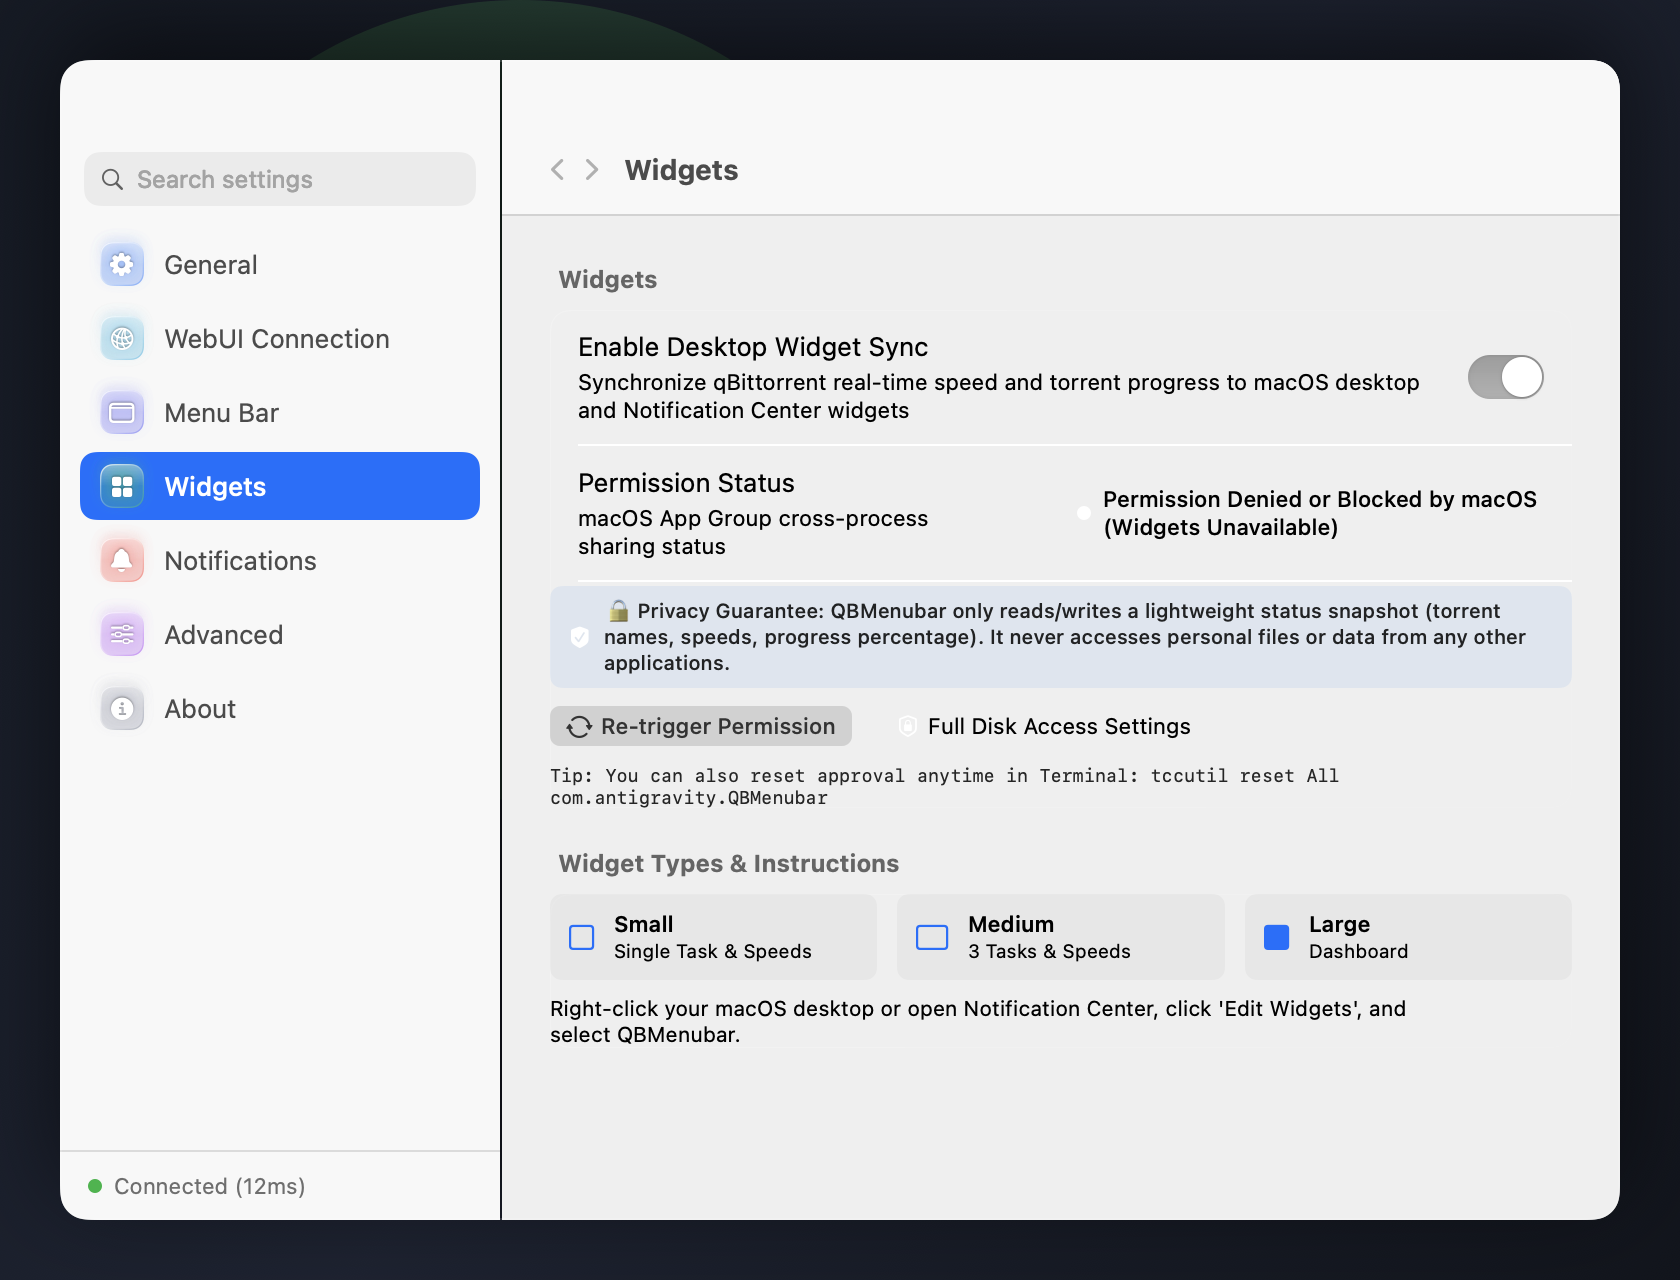
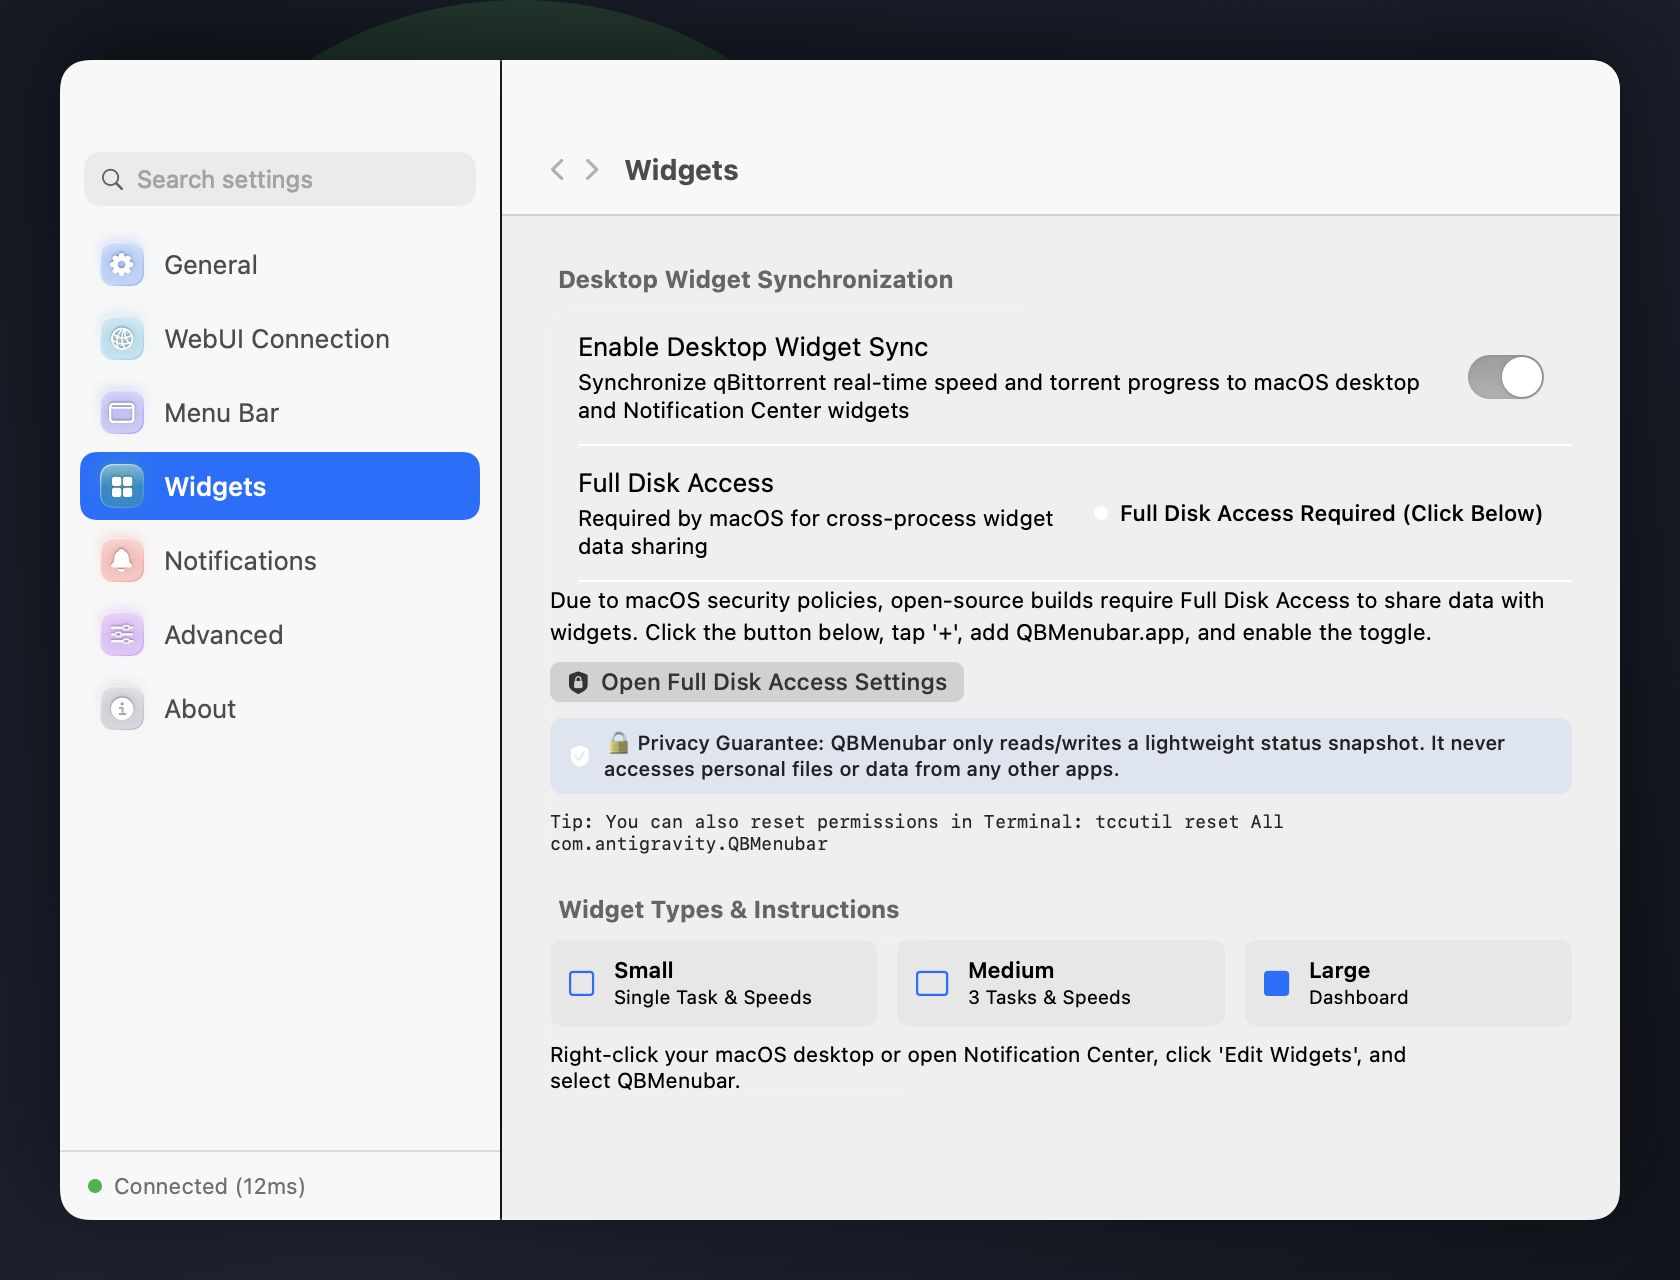
feat(v1.3.1): streamline Full Disk Access flow, remove redundant buttons, and fix settings layout

diff --git a/Sources/QBMenubar/Views/Settings/SettingsWindowView.swift b/Sources/QBMenubar/Views/Settings/SettingsWindowView.swift
@@ -517,7 +517,7 @@ public struct SettingsWindowView: View {
     @ViewBuilder
     private var widgetsPane: some View {
         // Group 1: Desktop Widget Synchronization & Permissions
-        SettingsGroup(title: L10n.widgets(lang)) {
+        SettingsGroup(title: isEn ? "Desktop Widget Synchronization" : "桌面小组件同步与权限") {
             SettingsRow(
                 title: L10n.enableWidgetSync(lang),
                 subtitle: L10n.enableWidgetSyncSubtitle(lang)
@@ -527,11 +527,6 @@ public struct SettingsWindowView: View {
                     set: { newValue in
                         viewModel.config.enableWidgetSync = newValue
                         viewModel.config.save()
-                        if newValue {
-                            if !WidgetDataManager.checkGroupContainerPermission() {
-                                WidgetDataManager.triggerPermissionPrompt()
-                            }
-                        }
                         viewModel.updateWidgetSnapshot()
                     }
                 ))
@@ -541,8 +536,8 @@ public struct SettingsWindowView: View {
             SettingsDivider()
 
             SettingsRow(
-                title: isEn ? "Permission Status" : "系统权限状态",
-                subtitle: isEn ? "macOS App Group cross-process sharing status" : "macOS App Group 跨进程数据共享状态"
+                title: isEn ? "Full Disk Access" : "完全磁盘访问权限",
+                subtitle: isEn ? "Required by macOS for cross-process widget data sharing" : "macOS 跨进程共享小组件数据所必需"
             ) {
                 HStack(spacing: 6) {
                     if !viewModel.config.enableWidgetSync {
@@ -564,58 +559,51 @@ public struct SettingsWindowView: View {
                 }
             }
 
-            SettingsDivider()
+            if viewModel.config.enableWidgetSync && !WidgetDataManager.checkGroupContainerPermission() {
+                SettingsDivider()
 
-            VStack(alignment: .leading, spacing: 8) {
-                HStack(spacing: 6) {
-                    Image(systemName: "checkmark.shield.fill")
+                VStack(alignment: .leading, spacing: 8) {
+                    Text(L10n.widgetPermissionDesc(lang))
                         .font(.system(size: 11))
-                        .foregroundStyle(.blue)
-                    Text(L10n.widgetPrivacyPromise(lang))
-                        .font(.system(size: 10, weight: .medium))
-                        .foregroundStyle(.primary.opacity(0.85))
-                }
-                .padding(.horizontal, 9)
-                .padding(.vertical, 6)
-                .frame(maxWidth: .infinity, alignment: .leading)
-                .background(
-                    RoundedRectangle(cornerRadius: 6, style: .continuous)
-                        .fill(Color.blue.opacity(0.08))
-                )
-
-                HStack(spacing: 10) {
-                    Button {
-                        WidgetDataManager.triggerPermissionPrompt()
-                        viewModel.updateWidgetSnapshot()
-                    } label: {
-                        HStack(spacing: 4) {
-                            Image(systemName: "arrow.triangle.2.circlepath")
-                            Text(L10n.retriggerPermissionBtn(lang))
-                        }
-                        .font(.system(size: 11, weight: .medium))
-                    }
-                    .adaptiveGlassButton(prominent: true)
+                        .foregroundStyle(.secondary)
+                        .lineSpacing(2)
 
                     Button {
                         if let url = URL(string: "x-apple.systempreferences:com.apple.preference.security?Privacy_AllFiles") {
                             NSWorkspace.shared.open(url)
                         }
                     } label: {
-                        HStack(spacing: 4) {
-                            Image(systemName: "lock.shield")
+                        HStack(spacing: 5) {
+                            Image(systemName: "lock.shield.fill")
                             Text(L10n.openFullDiskAccessBtn(lang))
                         }
-                        .font(.system(size: 11))
+                        .font(.system(size: 11.5, weight: .medium))
                     }
-                    .adaptiveGlassButton(prominent: false)
-                }
+                    .adaptiveGlassButton(prominent: true)
 
-                Text(L10n.terminalResetHint(lang))
-                    .font(.system(size: 9, design: .monospaced))
-                    .foregroundStyle(.tertiary)
-                    .textSelection(.enabled)
+                    HStack(spacing: 6) {
+                        Image(systemName: "checkmark.shield.fill")
+                            .font(.system(size: 11))
+                            .foregroundStyle(.blue)
+                        Text(L10n.widgetPrivacyPromise(lang))
+                            .font(.system(size: 10, weight: .medium))
+                            .foregroundStyle(.primary.opacity(0.85))
+                    }
+                    .padding(.horizontal, 9)
+                    .padding(.vertical, 6)
+                    .frame(maxWidth: .infinity, alignment: .leading)
+                    .background(
+                        RoundedRectangle(cornerRadius: 6, style: .continuous)
+                            .fill(Color.blue.opacity(0.08))
+                    )
+
+                    Text(L10n.terminalResetHint(lang))
+                        .font(.system(size: 9, design: .monospaced))
+                        .foregroundStyle(.tertiary)
+                        .textSelection(.enabled)
+                }
+                .padding(.top, 2)
             }
-            .padding(.top, 2)
         }
 
         // Group 2: Widget Sizes & Information
@@ -724,7 +712,7 @@ public struct SettingsWindowView: View {
                     Text("QBMenubar")
                         .font(.system(size: 17, weight: .bold))
 
-                    Text(L10n.tr(lang, zhHans: "版本 1.3.0 (Build 2026.11)", zhHant: "版本 1.3.0 (Build 2026.11)", en: "Version 1.3.0 (Build 2026.11)"))
+                    Text(L10n.tr(lang, zhHans: "版本 1.3.1 (Build 2026.11)", zhHant: "版本 1.3.1 (Build 2026.11)", en: "Version 1.3.1 (Build 2026.11)"))
                         .font(.system(size: 12))
                         .foregroundStyle(.secondary)
 

diff --git a/Sources/QBMenubar/Models/AppLocalization.swift b/Sources/QBMenubar/Models/AppLocalization.swift
@@ -445,15 +445,15 @@ public struct L10n {
     }
 
     public static func widgetPermissionSection(_ lang: AppLanguage) -> String {
-        tr(lang, zhHans: "跨进程数据共享与权限说明", zhHant: "跨行程資料共享與權限說明", en: "Cross-Process Data Sharing & Permissions")
+        tr(lang, zhHans: "桌面小组件同步与权限", zhHant: "桌面小工具同步與權限", en: "Desktop Widget Synchronization & Permissions")
     }
 
     public static func widgetPermissionGranted(_ lang: AppLanguage) -> String {
-        tr(lang, zhHans: "已获得数据共享权限 (正常同步中)", zhHant: "已獲得資料共享權限 (正常同步中)", en: "Data Sharing Permission Granted (Syncing)")
+        tr(lang, zhHans: "已授权 (正常同步中)", zhHant: "已授權 (正常同步中)", en: "Access Granted (Syncing)")
     }
 
     public static func widgetPermissionBlocked(_ lang: AppLanguage) -> String {
-        tr(lang, zhHans: "未获得权限或已被系统阻止 (小组件不可用)", zhHant: "未獲得權限或已被系統阻止 (小工具無法使用)", en: "Permission Denied or Blocked by macOS (Widgets Unavailable)")
+        tr(lang, zhHans: "需完全磁盘访问权限 (点击下方打开设置)", zhHant: "需全能磁碟存取權限 (點擊下方開啟設定)", en: "Full Disk Access Required (Click Below)")
     }
 
     public static func widgetPermissionDisabled(_ lang: AppLanguage) -> String {
@@ -461,30 +461,18 @@ public struct L10n {
     }
 
     public static func widgetPermissionDesc(_ lang: AppLanguage) -> String {
-        tr(lang, zhHans: "由于 macOS 15+ 的系统安全机制，菜单栏主程序与小组件扩展属于独立进程，需通过 App Group 共享容器交换任务快照。开源自签名版本首次访问时，系统会提示「尝试访问来自其他 App 的数据」并可能默认拦截。", zhHant: "由於 macOS 15+ 的系統安全機制，選單列主程式與小工具屬於獨立行程，需透過 App Group 共享容器交換任務快照。開源自簽名版本首次存取時，系統會提示「嘗試存取來自其他 App 的資料」並可能預設攔截。", en: "Due to macOS 15+ security policies, the Menu Bar app and WidgetKit extension run in separate processes and share snapshots via App Groups. For open-source ad-hoc builds, macOS displays 'tried to access your data from other apps' and blocks it by default.")
+        tr(lang, zhHans: "由于 macOS 系统安全机制，开源自签名版本需在「完全磁盘访问权限」中添加 QBMenubar 方可实现小组件跨进程数据同步。请点击下方按钮打开设置，点击「+」添加 QBMenubar.app 并开启开关。", zhHant: "由於 macOS 系統安全機制，開源自簽名版本需在「全能磁碟存取權限」中新增 QBMenubar 方可實現小工具跨行程資料同步。請點擊下方按鈕開啟設定，點擊「+」新增 QBMenubar.app 並開啟開關。", en: "Due to macOS security policies, open-source builds require Full Disk Access to share data with widgets. Click the button below, tap '+', add QBMenubar.app, and enable the toggle.")
     }
 
     public static func widgetPrivacyPromise(_ lang: AppLanguage) -> String {
-        tr(lang, zhHans: "🔒 隐私保证：QBMenubar 仅在共享容器中读写一份任务快照（仅含当前任务名、速率与进度百分比），绝不读取您的个人隐私或其他任何软件的数据。", zhHant: "🔒 隱私保證：QBMenubar 僅在共享容器中讀寫一份任務快照（僅含當前任務名、速率與進度百分比），絕不讀取您的個人隱私或其他任何軟體的資料。", en: "🔒 Privacy Guarantee: QBMenubar only reads/writes a lightweight status snapshot (torrent names, speeds, progress percentage). It never accesses personal files or data from any other applications.")
-    }
-
-    public static func widgetHowToFix(_ lang: AppLanguage) -> String {
-        tr(lang, zhHans: "若之前拒绝了权限或在「文件与文件夹」设置中未找到 QBMenubar：", zhHant: "若先前拒絕了權限或在「檔案與資料夾」設定中未找到 QBMenubar：", en: "If permission was denied or QBMenubar is missing in Files & Folders settings:")
-    }
-
-    public static func retriggerPermissionBtn(_ lang: AppLanguage) -> String {
-        tr(lang, zhHans: "重新申请权限", zhHant: "重新申請權限", en: "Re-trigger Permission")
-    }
-
-    public static func openFilesAndFoldersBtn(_ lang: AppLanguage) -> String {
-        tr(lang, zhHans: "打开「文件与文件夹」", zhHant: "開啟「檔案與資料夾」", en: "Open Files & Folders")
+        tr(lang, zhHans: "🔒 隐私保证：QBMenubar 仅读写一份任务快照（仅含当前任务名、速率与进度），绝不读取您的个人隐私文件或其他应用数据。", zhHant: "🔒 隱私保證：QBMenubar 僅讀寫一份任務快照（僅含當前任務名、速率與進度），絕不讀取您的個人隱私檔案或其他應用資料。", en: "🔒 Privacy Guarantee: QBMenubar only reads/writes a lightweight status snapshot. It never accesses personal files or data from any other apps.")
     }
 
     public static func openFullDiskAccessBtn(_ lang: AppLanguage) -> String {
-        tr(lang, zhHans: "完全磁盘访问设置", zhHant: "全能磁碟存取設定", en: "Full Disk Access Settings")
+        tr(lang, zhHans: "打开「完全磁盘访问权限」设置", zhHant: "開啟「全能磁碟存取」設定", en: "Open Full Disk Access Settings")
     }
 
     public static func terminalResetHint(_ lang: AppLanguage) -> String {
-        tr(lang, zhHans: "提示：也可以在「终端」运行命令完全重置授权：tccutil reset All com.antigravity.QBMenubar", zhHant: "提示：亦可在「終端機」執行指令重設授權：tccutil reset All com.antigravity.QBMenubar", en: "Tip: You can also reset approval anytime in Terminal: tccutil reset All com.antigravity.QBMenubar")
+        tr(lang, zhHans: "提示：也可以在终端运行重置命令：tccutil reset All com.antigravity.QBMenubar", zhHant: "提示：亦可在終端機執行重設指令：tccutil reset All com.antigravity.QBMenubar", en: "Tip: You can also reset permissions in Terminal: tccutil reset All com.antigravity.QBMenubar")
     }
 }

diff --git a/README.md b/README.md
@@ -114,15 +114,13 @@ QBMenubar supports macOS Desktop & Notification Center Widgets across three size
 2. **macOS "Data from other apps" Permission**:
    - **Why macOS prompts this**: Under macOS 15 (Sequoia) & macOS 26 (Tahoe), cross-process communication between an app and its sandboxed WidgetKit extension uses App Groups (`~/Library/Group Containers/`). Because open-source releases use ad-hoc code signing without a paid Apple commercial developer team profile, macOS flags this cross-process shared folder with a security notice: *"QBMenubar tried to access your data from other apps and was blocked."*
    - **🔒 Zero Privacy Risk**: QBMenubar **only** writes and reads its own `widget_snapshot.json` (containing torrent names, speeds, and progress percentages). It **never** accesses your personal files or any data from other applications.
-   - **How to Grant / Recover Permission**:
-     - **Option A (In-App)**: In **Preferences -> Widgets**, click **"Re-trigger Permission Prompt"**. macOS will immediately display the system prompt where you can click **Manage** and allow access.
-     - **Option B (System Settings)**: Open **System Settings > Privacy & Security > Files & Folders** (or **Full Disk Access**), locate **QBMenubar**, and turn on the permission toggle.
-     - **Option C (Terminal Reset)**: If you previously blocked access and QBMenubar doesn't appear in System Settings, run in Terminal:
+   - **How to Grant Permission**:
+     - **Option A (System Settings)**: In **Preferences -> Widgets**, click **"Open Full Disk Access Settings"** (or open **System Settings > Privacy & Security > Full Disk Access**), click **`+`**, select **QBMenubar.app**, and turn on the permission toggle.
+     - **Option B (Terminal Reset)**: If you previously blocked access and want to reset permissions, run in Terminal:
        ```bash
        tccutil reset All com.antigravity.QBMenubar
        ```
-       Then re-open QBMenubar and toggle the Widget switch to receive the authorization prompt again.
-   - **Note**: The widget requires this permission to display live tasks; without permission, widgets display a *"Permission Required"* state. **The core Menu Bar app continues to operate with 100% full functionality even if widget permission is not granted.**
+   - **Note**: The widget requires Full Disk Access to display live tasks; without it, widgets display a *"Permission Required"* state. **The core Menu Bar app continues to operate with 100% full functionality even if widget permission is not granted.**
 
 ---
 
